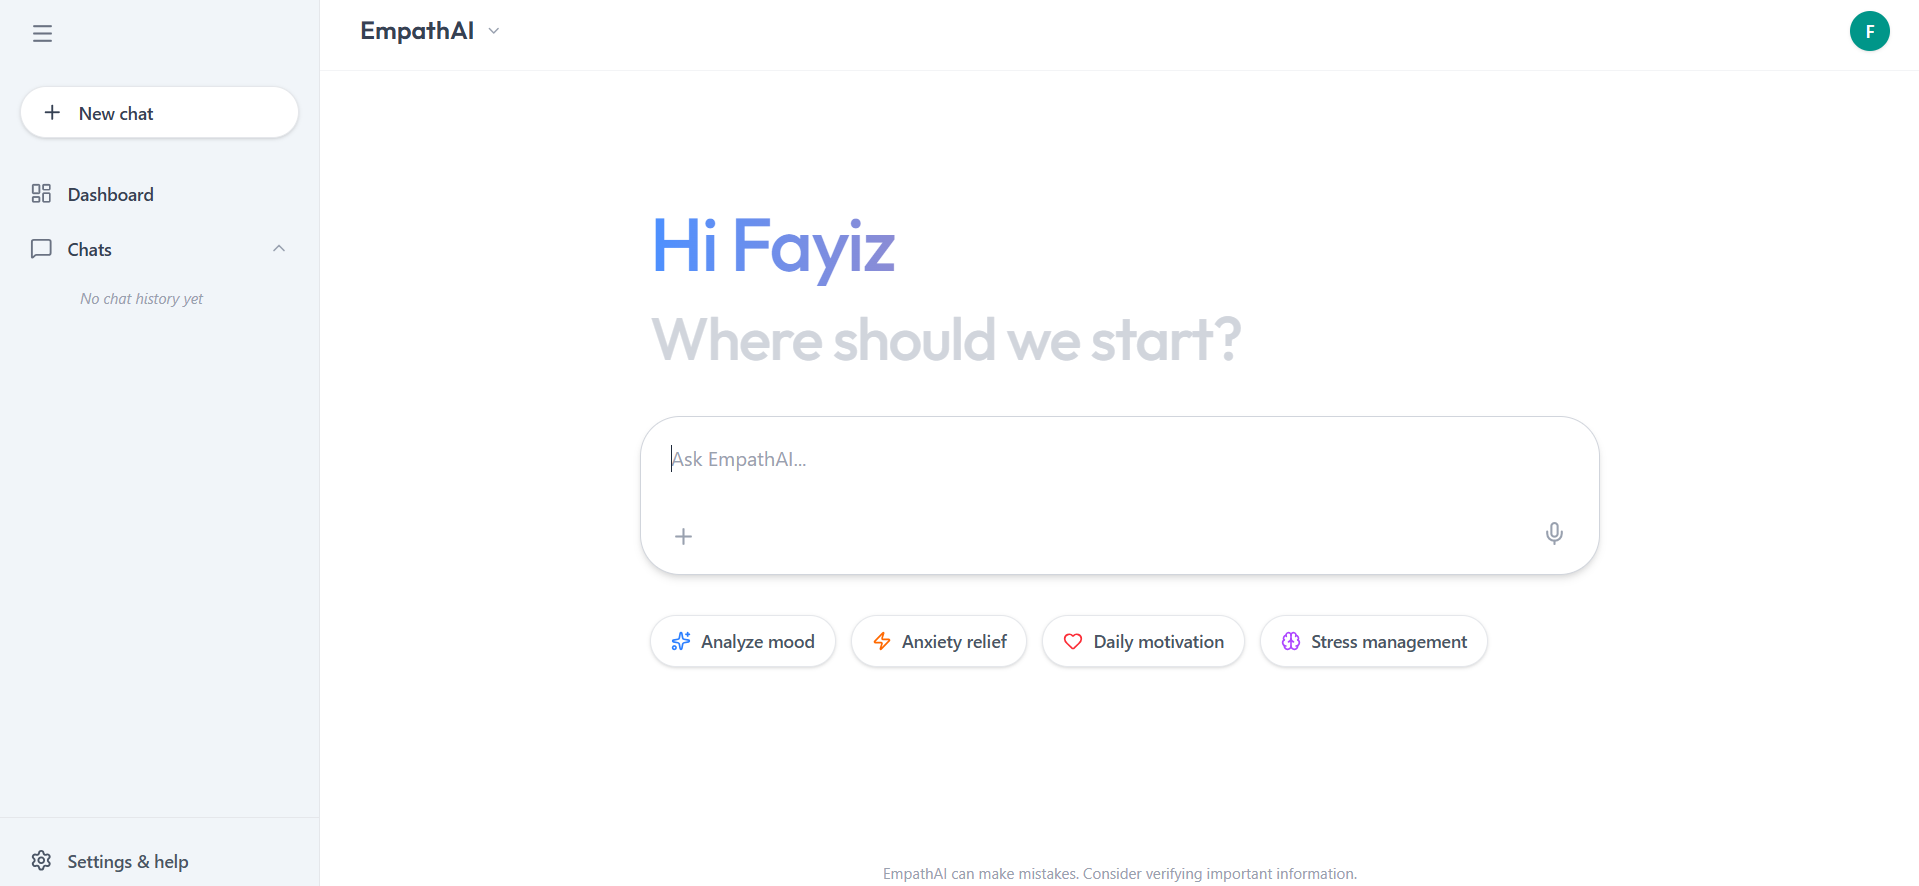
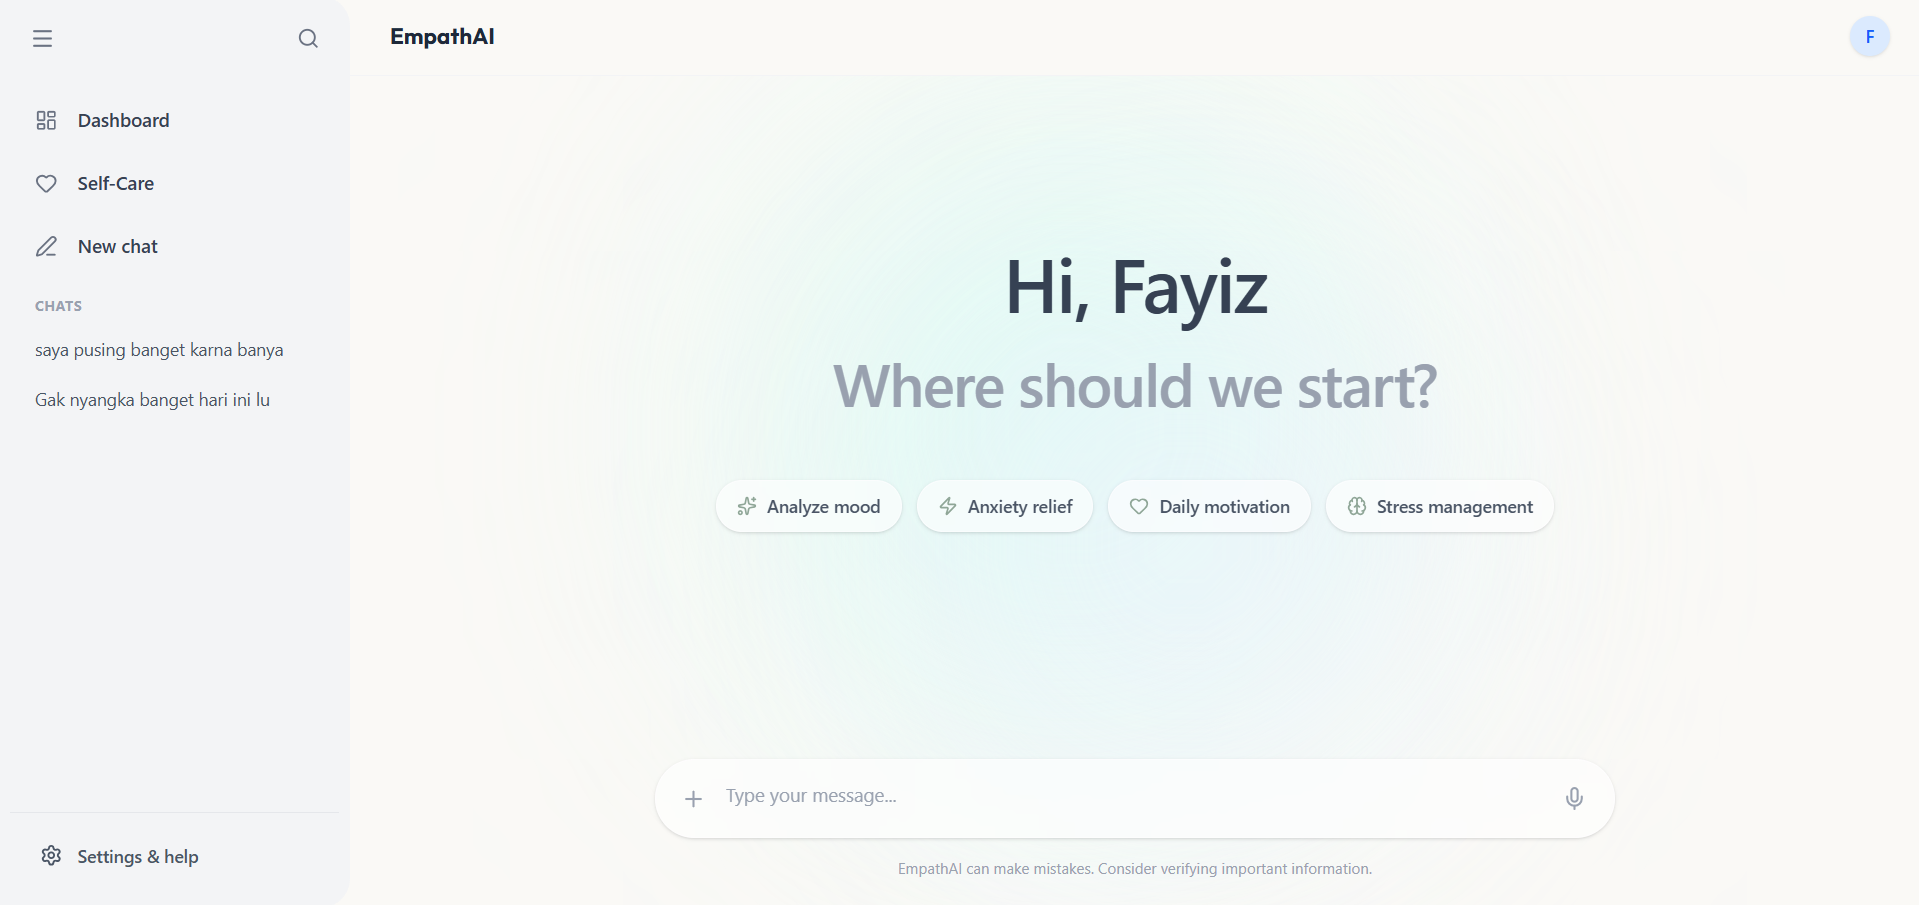
perbarui

diff --git a/src/components/Projects.jsx b/src/components/Projects.jsx
@@ -20,7 +20,7 @@ const projectsData = [
     image: "/image/empathai.png", 
     tags: ["Node.js", "Express.js", "NLP", "Chatbot", "React"], 
     desc: "Sistem chatbot interaktif berbasis kecerdasan buatan (AI) yang dirancang untuk memberikan dukungan emosional. Sistem ini membantu pengguna dalam mengekspresikan dan memahami kondisi emosional mereka melalui analisis teks tingkat lanjut.", 
-    link: "https://github.com/fayiz-akbar" 
+    link: "https://empath-ai.netlify.app/" 
   },
   { 
     id: 3, 